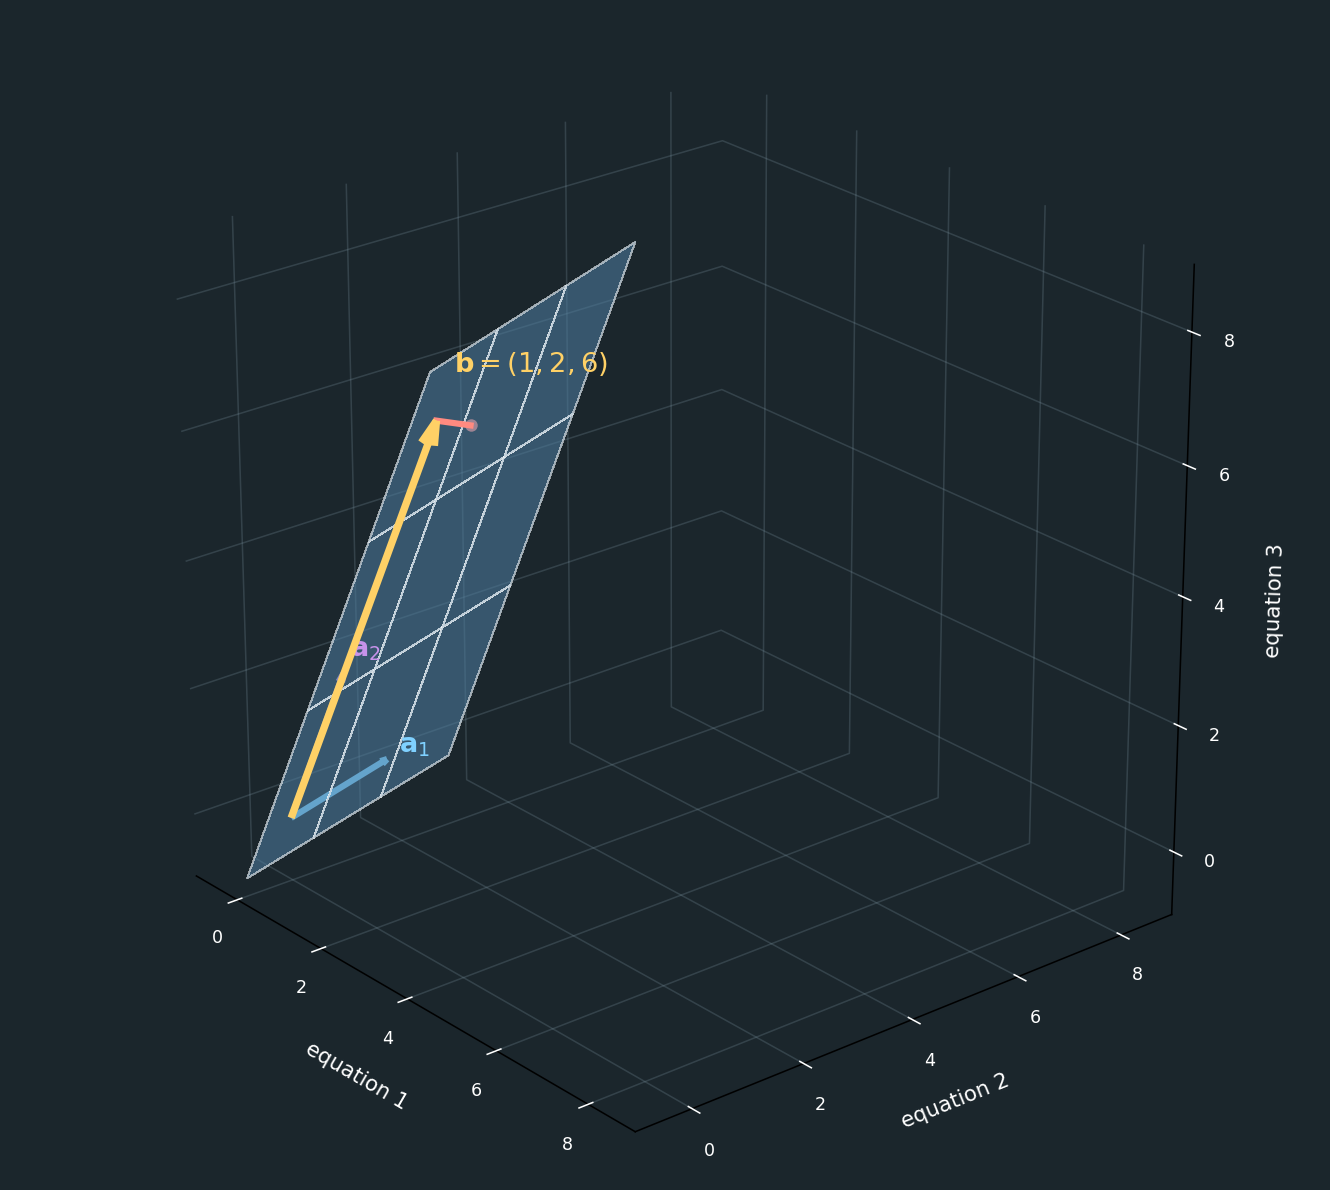
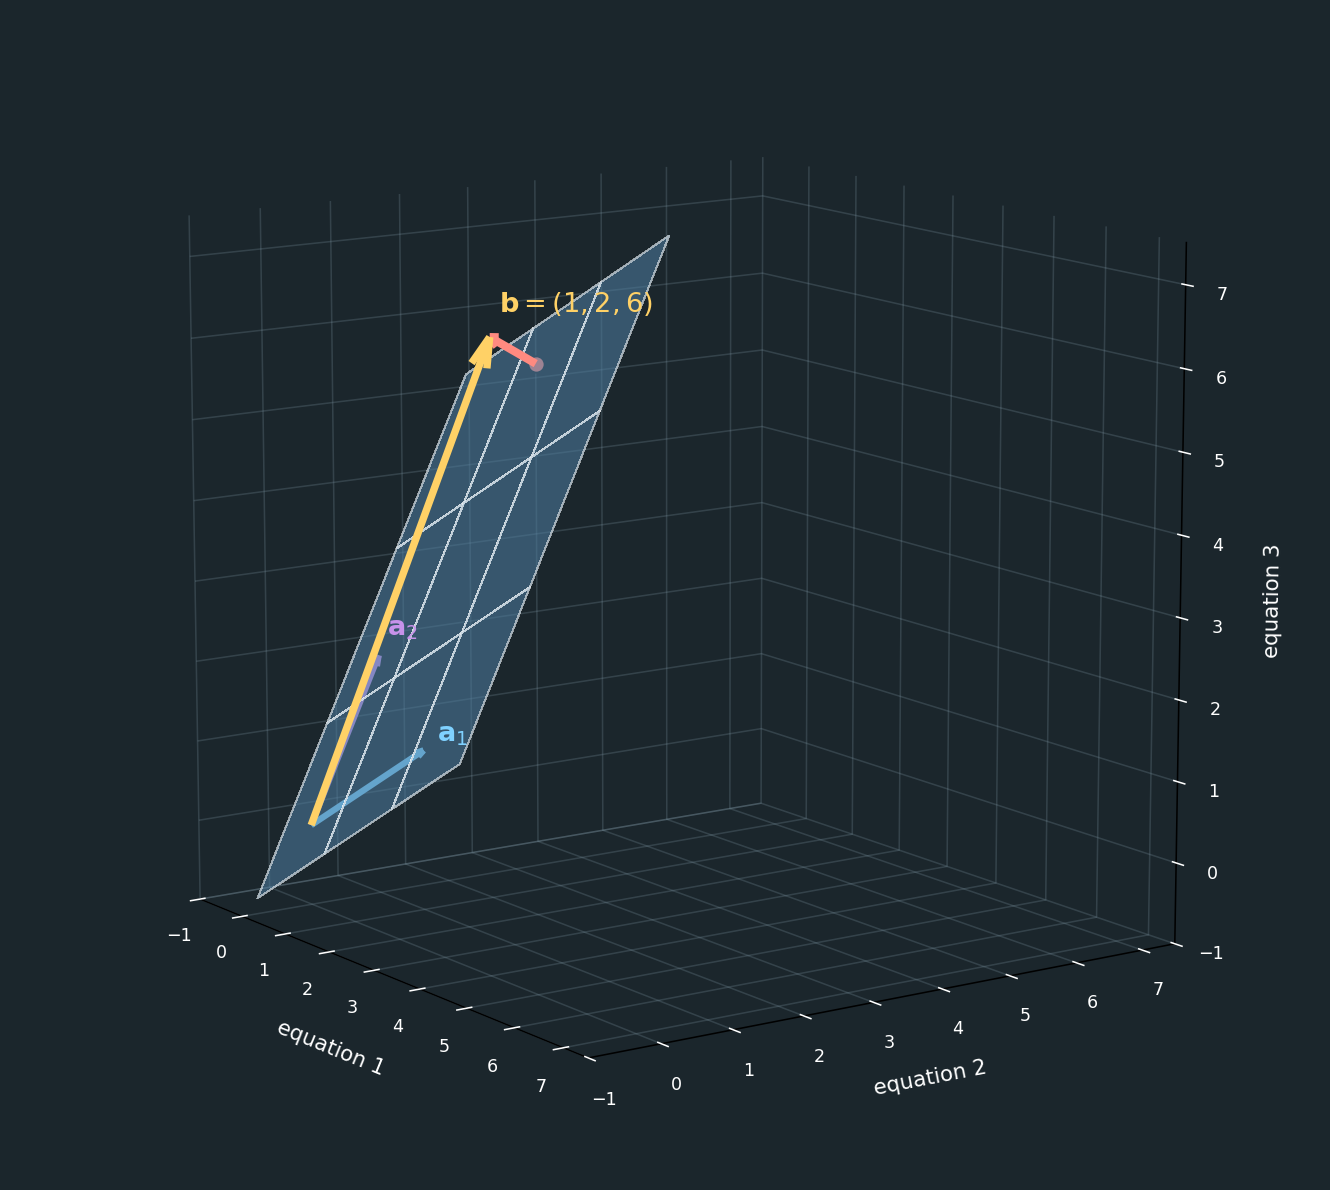
Enhance figure generation for linear least squares: adjust 3D view angles, improve visual clarity of no solution representation, and add new figure for data points that don't fit a line.

diff --git a/Least_Squares/Documents/images/generate_linear_least_squares_figures.py b/Least_Squares/Documents/images/generate_linear_least_squares_figures.py
@@ -103,21 +103,23 @@ def column_space_figure():
 
 
 def no_solution_figure():
-    fig, ax = new_3d_plane_axes(elev=24, azim=-40, span=(-1, 9),
-                                 plane_range=((-0.3, 1.8), (-0.3, 3.2)))
+    fig, ax = new_3d_plane_axes(elev=12, azim=-35, span=(-1, 7.5),
+                                 plane_range=((-0.3, 1.5), (-0.3, 2.8)))
 
     draw_arrow(ax, A1, COL_A1, r"$\mathbf{a}_1$")
     draw_arrow(ax, A2, COL_A2, r"$\mathbf{a}_2$")
-    draw_arrow(ax, B_NO_SOLUTION, POINT, r"$\mathbf{b}=(1,2,6)$", lw=3.8, zorder=7)
 
-    # A bright, unlabeled guide line down to the plane, to make the gap clearly visible.
+    # The closest point the plane actually contains, and the gap from there up to b.
     AtA = np.column_stack([A1, A2]).T @ np.column_stack([A1, A2])
     Atb = np.column_stack([A1, A2]).T @ B_NO_SOLUTION
     xhat = np.linalg.solve(AtA, Atb)
     foot = xhat[0] * A1 + xhat[1] * A2
-    ax.plot([B_NO_SOLUTION[0], foot[0]], [B_NO_SOLUTION[1], foot[1]],
-            [B_NO_SOLUTION[2], foot[2]], color=VEC_ERR, linewidth=3.2, zorder=6)
-    ax.scatter(*foot, color=VEC_ERR, s=55, zorder=7, edgecolor=BG, linewidth=1.0)
+    gap = B_NO_SOLUTION - foot
+
+    ax.scatter(*foot, color=VEC_ERR, s=70, zorder=6, edgecolor=BG, linewidth=1.0)
+    ax.quiver(*foot, *gap, color=VEC_ERR, linewidth=4.2, arrow_length_ratio=0.18, zorder=7)
+    draw_arrow(ax, B_NO_SOLUTION, POINT, r"$\mathbf{b}=(1,2,6)$", lw=3.8, zorder=8,
+               label_offset=1.05)
 
     ax.set_title("b does not lie on the plane: this system has no solution", color=TEXT,
                  fontsize=13.5, pad=0)
@@ -125,7 +127,7 @@ def no_solution_figure():
     plt.close(fig)
 
 
-def new_2d_axes():
+def new_2d_axes(ylim=(0, 4)):
     fig = plt.figure(figsize=(8, 6.2), facecolor=BG)
     ax = fig.add_axes([0.11, 0.12, 0.85, 0.82])
     ax.set_facecolor(BG)
@@ -136,7 +138,7 @@ def new_2d_axes():
     ax.set_ylabel("y", color=TEXT, fontsize=15)
     ax.grid(True, color=GRID, alpha=0.25, linewidth=0.8)
     ax.set_xlim(-0.5, 2.5)
-    ax.set_ylim(0, 4)
+    ax.set_ylim(*ylim)
     return fig, ax
 
 
@@ -149,6 +151,18 @@ def data_points_figure():
                     fontsize=12)
     ax.set_title("The system's rows, reread as data points", color=TEXT, fontsize=15, pad=12)
     fig.savefig(os.path.join(OUT_DIR, "data_points.png"), dpi=70, facecolor=BG)
+    plt.close(fig)
+
+
+def data_points_no_fit_figure():
+    fig, ax = new_2d_axes(ylim=(0, 7))
+    ax.plot(A2, B_NO_SOLUTION, "o", color=POINT, markersize=13, markeredgecolor=BG,
+            markeredgewidth=1.3, zorder=4)
+    for t, y in zip(A2, B_NO_SOLUTION):
+        ax.annotate(f"({t:.0f}, {y:.0f})", xy=(t, y), xytext=(t + 0.08, y + 0.15), color=TEXT,
+                    fontsize=12)
+    ax.set_title("Three points that don't lie on a single line", color=TEXT, fontsize=15, pad=12)
+    fig.savefig(os.path.join(OUT_DIR, "data_points_no_fit.png"), dpi=70, facecolor=BG)
     plt.close(fig)
 
 
@@ -196,8 +210,9 @@ def main():
     column_space_figure()
     no_solution_figure()
     data_points_figure()
+    data_points_no_fit_figure()
     line_fit_figure()
-    print("Generated 4 figures in", OUT_DIR)
+    print("Generated 5 figures in", OUT_DIR)
 
 
 if __name__ == "__main__":

diff --git a/Least_Squares/Documents/linear_least_squares.md b/Least_Squares/Documents/linear_least_squares.md
@@ -184,7 +184,11 @@ Every one of our three points lies exactly on this line, because the original sy
 
 ## When the Data Doesn't Fit a Line
 
-Real measurements are rarely this clean. Suppose that instead of measuring $y=3$ at $t=2$, we had measured $y=6$, so our right-hand side became $\mathbf{b}=(1,2,6)$ instead of $(1,2,3)$.
+Real measurements are rarely this clean. Suppose that instead of measuring $y=3$ at $t=2$, we had measured $y=6$, giving us three points that don't lie on a single line:
+
+![Three points plotted on a t-y graph: (0, 1), (1, 2), and (2, 6). The first two points suggest a line with slope 1, but the third point sits well above where that line would predict.](images/data_points_no_fit.png)
+
+In terms of the linear system, this means our right-hand side became $\mathbf{b}=(1,2,6)$ instead of $(1,2,3)$.
 
 The first two equations are unchanged, so solving them still gives $x_1=1$ and $x_2=1$, exactly as before. But checking these same values against the third equation:
 
@@ -196,7 +200,7 @@ which doesn't match the measured value of $6$. There is no single $x_1$ and $x_2
 
 We already know that $A\mathbf{x}$ can only ever produce a vector somewhere on the plane $\mathrm{Col}(A)$, no matter what $x_1$ and $x_2$ we choose. If no $\mathbf{x}$ reaches $\mathbf{b}=(1,2,6)$, that can only mean one thing: $\mathbf{b}$ itself does not lie on that plane.
 
-![The column space plane from before, shown again with a1 and a2, but now with a new gold vector b equal to (1, 2, 6) whose tip clearly sits off of the plane's surface, with a short red segment marking the gap between the tip of b and the plane.](images/no_solution.png)
+![The column space plane from before, shown again with a1 and a2, but now with a new gold vector b equal to (1, 2, 6) whose tip clearly sits off of the plane's surface, with a thick red arrow pointing from the plane up to the tip of b, making the gap unmistakable.](images/no_solution.png)
 
 We can't reach $\mathbf{b}$ exactly — but we don't have to give up entirely. We can still ask for the closest point to $\mathbf{b}$ that the column space *does* contain. That closest point is called the **projection** of $\mathbf{b}$ onto $\mathrm{Col}(A)$, and the $x_1$ and $x_2$ that produce it give us the best approximate solution to our system: the line that comes closest, overall, to passing through all of our data points. Finding that line — the one that minimizes the total error between the line and the data — is exactly the **least squares** problem this whole document is named after.
 
